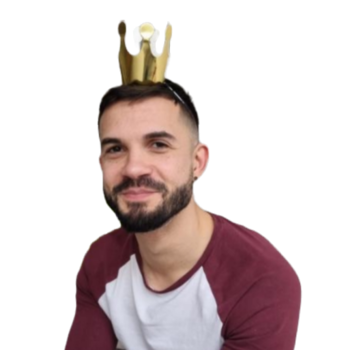
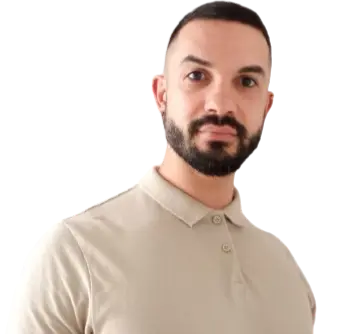
change hero image

diff --git a/src/assets/styles/App.css b/src/assets/styles/App.css
@@ -152,13 +152,12 @@ nav ul li a:hover {
 }
 .hero article:last-of-type {
   position: relative;
+  justify-content: flex-end;
 }
 .hero article:last-of-type img {
-  position: absolute;
   width: 100%;
-  left: -10%;
-  filter: grayscale(1) brightness(0.7) drop-shadow(0 0 60px rgba(128, 255, 219, 0.2));
-  z-index: 0;
+  margin-left: -10%;
+  filter: grayscale(1) brightness(0.5) drop-shadow(0 0 60px rgba(128, 255, 219, 0.2));
 }
 .hero article:last-of-type ul {
   display: flex;
@@ -190,7 +189,8 @@ nav ul li a:hover {
 
 .about {
   padding: 60px;
-  margin-top: calc(7 *60px);
+  padding-top: calc(3 *60px);
+  background-color: rgba(128, 255, 219, 0.1);
   margin-bottom: calc(5 *60px);
   display: flex;
   column-gap: 48px;
@@ -223,12 +223,11 @@ nav ul li a:hover {
   align-items: flex-end;
 }
 .about article:last-of-type svg {
-  filter: drop-shadow(0 0 7px rgba(128, 255, 219, 0.3));
+  filter: drop-shadow(0 0 7px rgba(255, 255, 255, 0.5));
 }
 
 .experience {
   padding: 60px;
-  background-color: #515963;
 }
 .experience article {
   display: flex;
@@ -283,7 +282,7 @@ nav ul li a:hover {
   display: block;
   background-color: #adb5bd;
   border-radius: 100%;
-  outline: 10px solid #515963;
+  outline: 10px solid #343a40;
 }
 .experience article ul li details summary div div {
   position: absolute;
@@ -742,12 +741,10 @@ h2 {
     flex: 0 0 30%;
   }
   .hero article:last-of-type img {
-    left: -80%;
-    top: 10%;
+    margin-left: -80%;
     width: 150%;
   }
   .about {
-    margin-top: calc(3 * 60px);
     flex-flow: column nowrap;
     row-gap: 60px;
   }
@@ -811,11 +808,12 @@ h2 {
     bottom: auto;
   }
   .hero article:last-of-type img {
-    position: fixed;
+    margin-left: 0;
   }
   .about {
     flex-flow: column nowrap;
     padding: 30px;
+    padding-top: calc(3*60px);
     row-gap: 60px;
   }
   .experience {
@@ -907,9 +905,6 @@ h2 {
   }
   footer article:last-of-type {
     flex: 0 0 100%;
-  }
-  section {
-    margin-bottom: calc(3 * 60px);
   }
 }
 

diff --git a/src/assets/styles/App.scss b/src/assets/styles/App.scss
@@ -105,7 +105,6 @@ nav {
 }
 .inactive {
   color: $white;
-  
 }
 
 .hero {
@@ -131,14 +130,14 @@ nav {
     }
     &:last-of-type {
       position: relative;
+      justify-content: flex-end;
       img {
-        position: absolute;
+        // position: absolute;
         width: 100%;
-        left: -10%;
+        margin-left: -10%;
 
-        filter: grayscale(1) brightness(0.7)
+        filter: grayscale(1) brightness(0.5)
           drop-shadow(0 0 $xh rgba($turquoise, 0.2));
-        z-index: 0;
       }
       ul {
         display: flex;
@@ -177,10 +176,13 @@ nav {
 
 .about {
   padding: $xh;
+  padding-top: calc(3 *#{$xh});
+  background-color: rgba($turquoise,0.1);
   margin: {
-    top: calc(7 *#{$xh});
+    // top: calc(7 *#{$xh});
     bottom: calc(5 *#{$xh});
   }
+
   display: flex;
   column-gap: $h;
   article {
@@ -211,14 +213,14 @@ nav {
       align-items: flex-end;
 
       svg {
-        filter: drop-shadow(0 0 $xxs rgba($turquoise, 0.3));
+        filter: drop-shadow(0 0 $xxs rgba($white, 0.5));
       }
     }
   }
 }
 .experience {
   padding: $xh;
-  background-color: $gray500;
+  // background-color: $gray500;
   article {
     display: flex;
     flex-flow: column nowrap;
@@ -276,7 +278,7 @@ nav {
               display: block;
               background-color: $gray400;
               border-radius: 100%;
-              outline: 10px solid $gray500;
+              outline: 10px solid $gray600;
 
               div {
                 position: absolute;

diff --git a/src/assets/styles/Mobile.scss b/src/assets/styles/Mobile.scss
@@ -48,7 +48,11 @@
           // position:fixed;
         }
         img {
-          position: fixed;
+          margin-left: 0;
+        // left: $xxl;
+          // right:0;
+
+          // position: fixed;
           // display: none;
         }
       }
@@ -58,7 +62,9 @@
   .about {
     flex-flow: column nowrap;
     padding: $xxl;
+    padding-top: calc(3*#{$xh});
     row-gap: $xh;
+    
   }
 
   .experience {
@@ -158,6 +164,6 @@
   }
 
   section {
-    margin-bottom: calc(3 * #{$xh});
+    // margin-bottom: calc(3 * #{$xh});
   }
 }

diff --git a/src/assets/styles/Tablet.scss b/src/assets/styles/Tablet.scss
@@ -36,8 +36,7 @@
       &:last-of-type {
         flex: 0 0 30%;
         img {
-          left: -80%;
-          top:10%;
+          margin-left: -80%;
           width: 150%;
           // display: none;
         }
@@ -46,7 +45,6 @@
   }
 
   .about {
-    margin-top: calc(3 * #{$xh});
     flex-flow: column nowrap;
     row-gap: $xh;
   }
